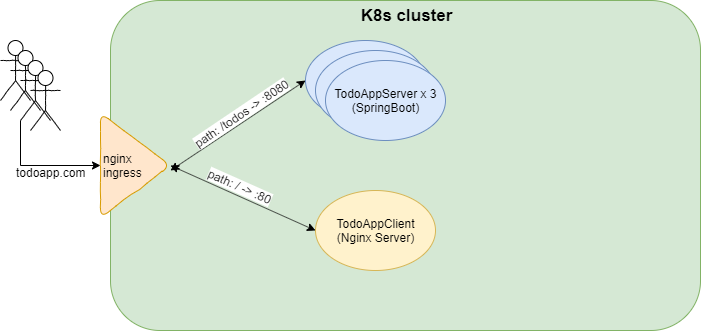
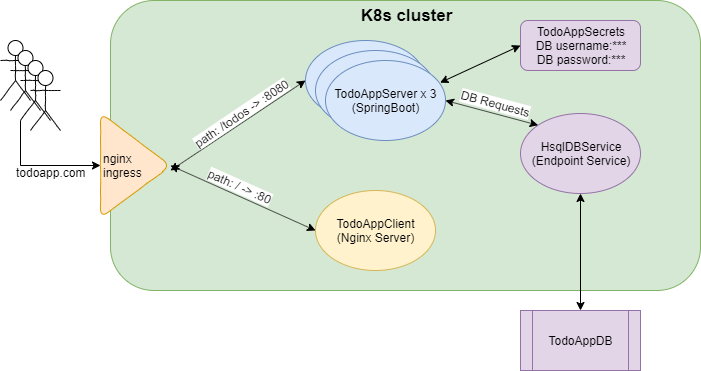
Configurations are written into Readme.md files

diff --git a/ToDoAppServer/Readme.md b/ToDoAppServer/Readme.md
@@ -1,12 +1,12 @@
 #ToDo App Server
 Spring Boot Based ToDo Application Backend Project
 
-This application is implemented for using in Proof of Concept (POC) works. 
+This application is implemented for using in Proof of Concept (POC) works in scalable environment. 
 It includes basic crud operations for simple ToDo task list.
 
 Service;
 - Consist of three layers (controller, service, repository)
-- Stores data in memory (for now).
+- Manage data in hsqldb over Spring Data.
 - Provides a rest controller interface.
 - Uses same entity in all layers for simplicity.
 - Has sample dockerfile and kubernetes deployment file also
@@ -16,6 +16,8 @@ Key Points:
 - Cross-Origin Resource Sharing (CORS) from any domain with any method is allowed in development profile. 
   (In order to test with [frontend](../ToDoAppClient) project)
   See corsConfigurer method in [Application.java](./src/main/java/com/ay/todo/Application.java)
+- Database configuration is given as environment variables inside DockerFile. (By this way, it can also be set in k8s config file) To run application,
+  do not forget to run [sql scripts](../TodoAppConfig/todoapp-db.sql) in your database schema.
 
 #Installment
 You can run project with `mvn spring-boot:run` command. 
@@ -36,6 +38,20 @@ $ docker push ayortanli/todoappserver:1.0.2
 Finally, deploy your application to k8s with following command:
 ```sh
 $ kubectl create -f todoappserver-k8s.yaml
+```
+Following, configuration files should also be applied for database access:
+
+- Secret objects for database connection [todoappsecrets-k8s.yaml](../TodoAppConfig/todoappsecrets-k8s.yaml):
+```sh
+$ kubectl create -f todoappsecrets-k8s.yaml
+```
+After creating secret object, use related kubectl command to change secrets with real values. Or, as a much more 
+easy option, edit and reapply the config file.
+
+- Database endpoint service creation (Used as database proxy by all services inside k8s cluster)
+[todoappdb-k8s.yaml](../TodoAppConfig/todoappdb-k8s.yaml)
+```sh
+$ kubectl create -f todoappdb-k8s.yaml
 ```
 If you want to use available images without recreation, use following url in yaml files
 (https://cloud.docker.com/repository/docker/ayortanli/todoappserver)

diff --git a/README.md b/README.md
@@ -1,8 +1,8 @@
 # ToDoApp
-ToDoApp is developed to use for Proof of Concept works. 
+ToDoApp is developed to use for Proof of Concept works on scalable environments. 
 It consists of a backend and a frontend projects. 
 In development profile, backend and frontend applications can directly call each other.
-On the other hand; in production profile, environment is implemented is an kubernetes cluster.
+On the other hand; in production profile, environment is implemented as a kubernetes cluster.
 
 The system architecture is as follows:
 
@@ -15,3 +15,9 @@ Details can be found in subproject pages.
 - [Other configuration files](./TodoAppConfig)
   - [todoappingress-k8s.yaml](./TodoAppConfig/todoappingress-k8s.yaml) creates nginx ingress for
   system routing. 
+  - [todoappdb-k8s.yaml](./TodoAppConfig/todoappdb-k8s.yaml) creates an endpoint service which is used 
+  as database proxy inside k8s cluster. (Database is located as a static resource outside of the cluster)
+  - [todoappsecrets-k8s.yaml](./TodoAppConfig/todoappsecrets-k8s.yaml) creates a secret object which holds
+  database username and password. (This object should be updated with real db username/password by using related
+  kubectl commands)
+  - [todoapp-db.sql](./TodoAppConfig/todoapp-db.sql) contains sql scripts to construct application initial database.
